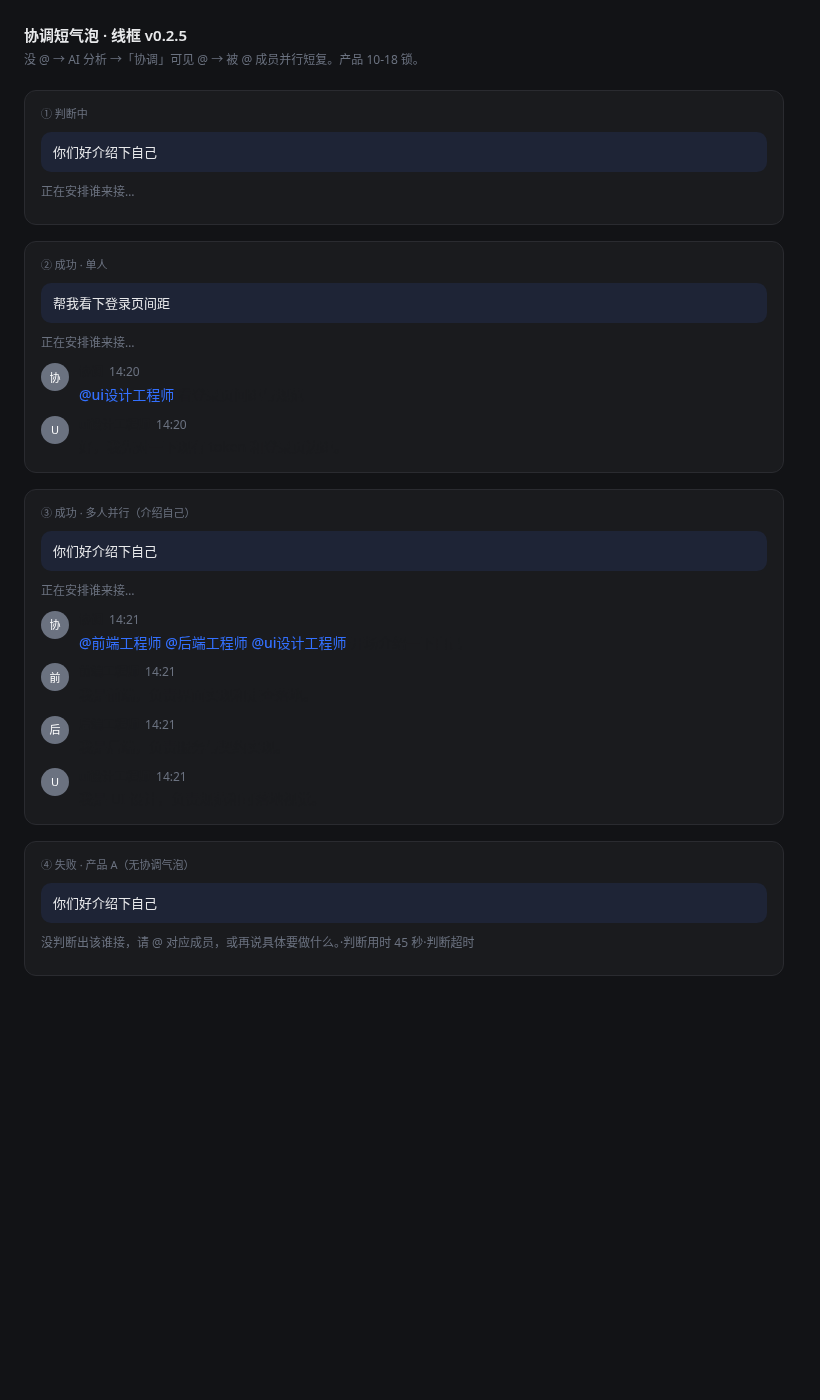
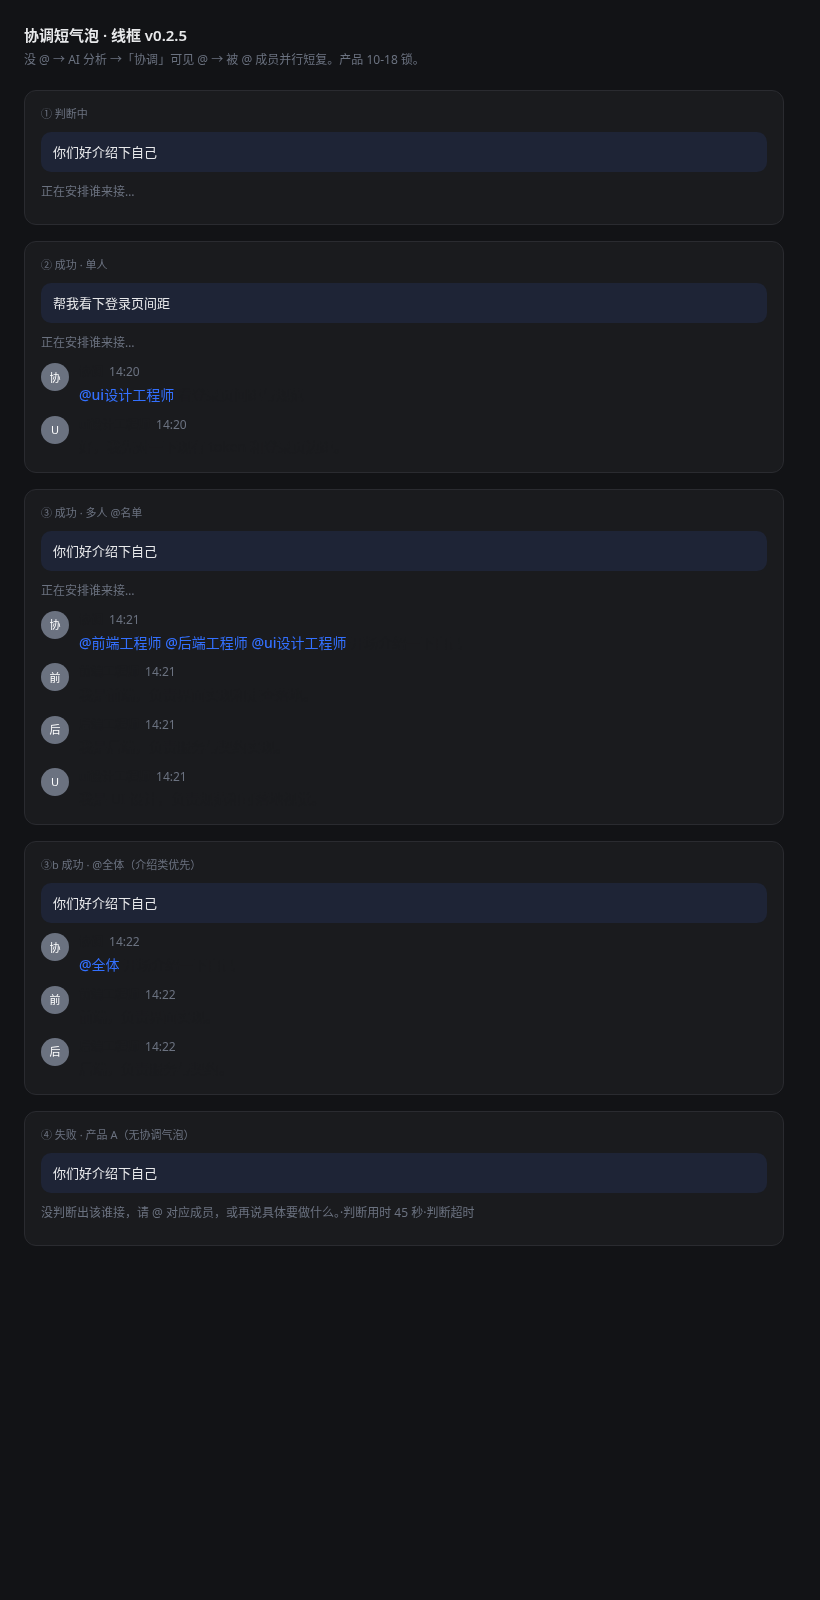
design(cat): v0.2.5 补 @全体、协调不计 hop、介绍类优先多人
对齐产品 10-18 细则；线框增加 @全体态。

diff --git a/proto/cat-project-group/wire-coord/index.html b/proto/cat-project-group/wire-coord/index.html
@@ -62,7 +62,7 @@
   </div>
 
   <div class="card" data-scene="coord-ok-n">
-    <div class="lab">③ 成功 · 多人并行（介绍自己）</div>
+    <div class="lab">③ 成功 · 多人 @名单</div>
     <div class="task">你们好介绍下自己</div>
     <div class="sys">正在安排谁来接…</div>
     <div class="coord">
@@ -91,6 +91,33 @@
       <div>
         <div class="meta"><b>ui设计工程师</b>14:21</div>
         <div class="body">我是 UI 设计，负责规范和可落地视觉。</div>
+      </div>
+    </div>
+  </div>
+
+
+  <div class="card" data-scene="coord-ok-all">
+    <div class="lab">③b 成功 · @全体（介绍类优先）</div>
+    <div class="task">你们好介绍下自己</div>
+    <div class="coord">
+      <div class="av">协</div>
+      <div>
+        <div class="meta"><b>协调</b>14:22</div>
+        <div class="body"><span class="at">@全体</span> 开场介绍一下自己</div>
+      </div>
+    </div>
+    <div class="short">
+      <div class="av m1">前</div>
+      <div>
+        <div class="meta"><b>前端工程师</b>14:22</div>
+        <div class="body">前端，负责界面实现。</div>
+      </div>
+    </div>
+    <div class="short">
+      <div class="av m2">后</div>
+      <div>
+        <div class="meta"><b>后端工程师</b>14:22</div>
+        <div class="body">后端，负责服务与契约。</div>
       </div>
     </div>
   </div>

diff --git a/proto/Cat-项目群聊-设计说明-v0.2.5.md b/proto/Cat-项目群聊-设计说明-v0.2.5.md
@@ -12,7 +12,7 @@
 | v0.2.1 | 产品不阻塞两项：输入框去掉「发给: 全体」（只靠 @ 选人）；成员头像色改正式 token `--cat-member-1…5` |
 | v0.2.2 | **来源：产品 10-17**（前端走查 `fe/cat-groupchat-v055@4da2d70` 时定）：① 排队文案：右栏「排队中 · 前面还有 {n} 个」，派活灰字「交给 {成员}：正在干活，排在后面」；② 成员状态统一叫「正在干活」，不用「干活中」。原型 members 场景后端工程师改为排队中、dispatch 场景加一条排队灰字，两场景浅暗图重拍。排队数据等契约 v0.55.6。 |
 | v0.2.3 | **来源：产品 10-17 定 A**：没 @、自动派活开着，但判断失败 / 超时 / 定不出该谁时，**不要交给排第一、不要起成员干活**。灰字改为「没判断出该谁接，请 @ 对应成员，或再说具体要做什么。」（可带「· 判断用时 n 秒」）；该行**不出现「换人」**。自动派活关掉时仍按原规则交给排第一（「没开自动派活…」不变）。原型 dispatch 失败灰字与右栏兜底说明已改，dispatch 浅暗重拍。 |
-| v0.2.5 | **来源：产品 10-18 锁（对标本群协作）**：没 @ → AI 分析 → **系统身份「协调」短气泡**可见 `@成员A @成员B…`（`memberIds[]` 1～N）→ 按现有被 @ 唤醒并行回复。加载仍用灰字「正在安排谁来接…」；失败仍产品 A（灰字 + 原因、不起人、不排第一）。理由 ≤40 字写进协调气泡。**废除**静默 wake / 「交给 {名}：{理由}」成功路径。线框见 `wire-coord/`。 |
+| v0.2.5 | **来源：产品 10-18 锁（对标本群协作）**：没 @ → AI → **「协调」短气泡**可见 `@成员…` 或 **`@全体`**（展开全员 mentions，`memberIds[]` 1～N）→ 与用户 @ 同路径唤醒并行。加载灰字保留；失败产品 A。理由≤40字。协调这一跳**不计 hop**；成员互 @ 仍≤6。介绍/招呼类优先多人/`@全体`。**废除**静默 wake。线框见 `wire-coord/`（含 @全体）。 |
 | v0.2.4 | **来源：产品 10-17 v0.56 细则（对标 Grok Bot 群聊工作方式）**：① **并行默认**：用户或成员一次 @ 多人 → 同时开工；同一人忙才排队；消息流去掉「接力」语感与「第 n/6 次」计数。② **@ 自主**：「交给谁」可空；写了 @ = 成员自己决定请谁接着（仍唤醒）；空则干完结束——消息流可不写灰字，或弱灰字只写「{成员} 已完成」（**不写**「没有交给下一位」）。③ **hop≤6 保留**，但 UI 弱化：过程抽屉可保留内部次数，**消息流灰字不写第 n/6**。④ **回复分层**：正式交付 → 汇报卡；招呼 / 澄清 → 短自然语言回复，**不出四段卡**。原型灰字与空态步骤已同步。 |
 
 ## 1. 原则
@@ -111,8 +111,8 @@
 |---|---|
 | 身份 | 固定显示名 **「协调」**；**不出现在**成员名册 / 建群列表；头像用系统标（建议中性灰圆底 + 小型 users / 分派图标，**不用** `--cat-member-1…5`） |
 | 形态 | 与短复同宽左对齐：头像 28px · 「协调」· 时间 + 一段正文；**无**四段汇报结构 |
-| 正文 | 必有可见 `@名字` chip（`--ff-primary`，与用户 @ 同款）；可多人空格分隔；理由 ≤40 字跟在 @ 后或下一行（例：`@前端工程师 @后端工程师 开场介绍一下自己`） |
-| 数据 | `mentions=[memberId…]` 与正文 @ 一一对应；唤醒路径 = 用户 @ |
+| 正文 | 必有可见 `@名字` chip（`--ff-primary`，与用户 @ 同款）；可多人空格分隔；或 **`@全体`** chip（同主色）。理由 ≤40 字跟在 @ 后或下一行 |
+| 数据 | `mentions=[memberId…]`；`@全体` = 展开为全体成员 mentions（与用户 `@全体` 同路径）。协调这一跳**不计 hop** |
 | 操作 | 气泡本身无「换人」；失败才走 6.4b |
 | 不做 | 静默 `wakeMember`；成功路径不再用「交给 {名}：{理由}」灰字顶替可见 @ |
 
